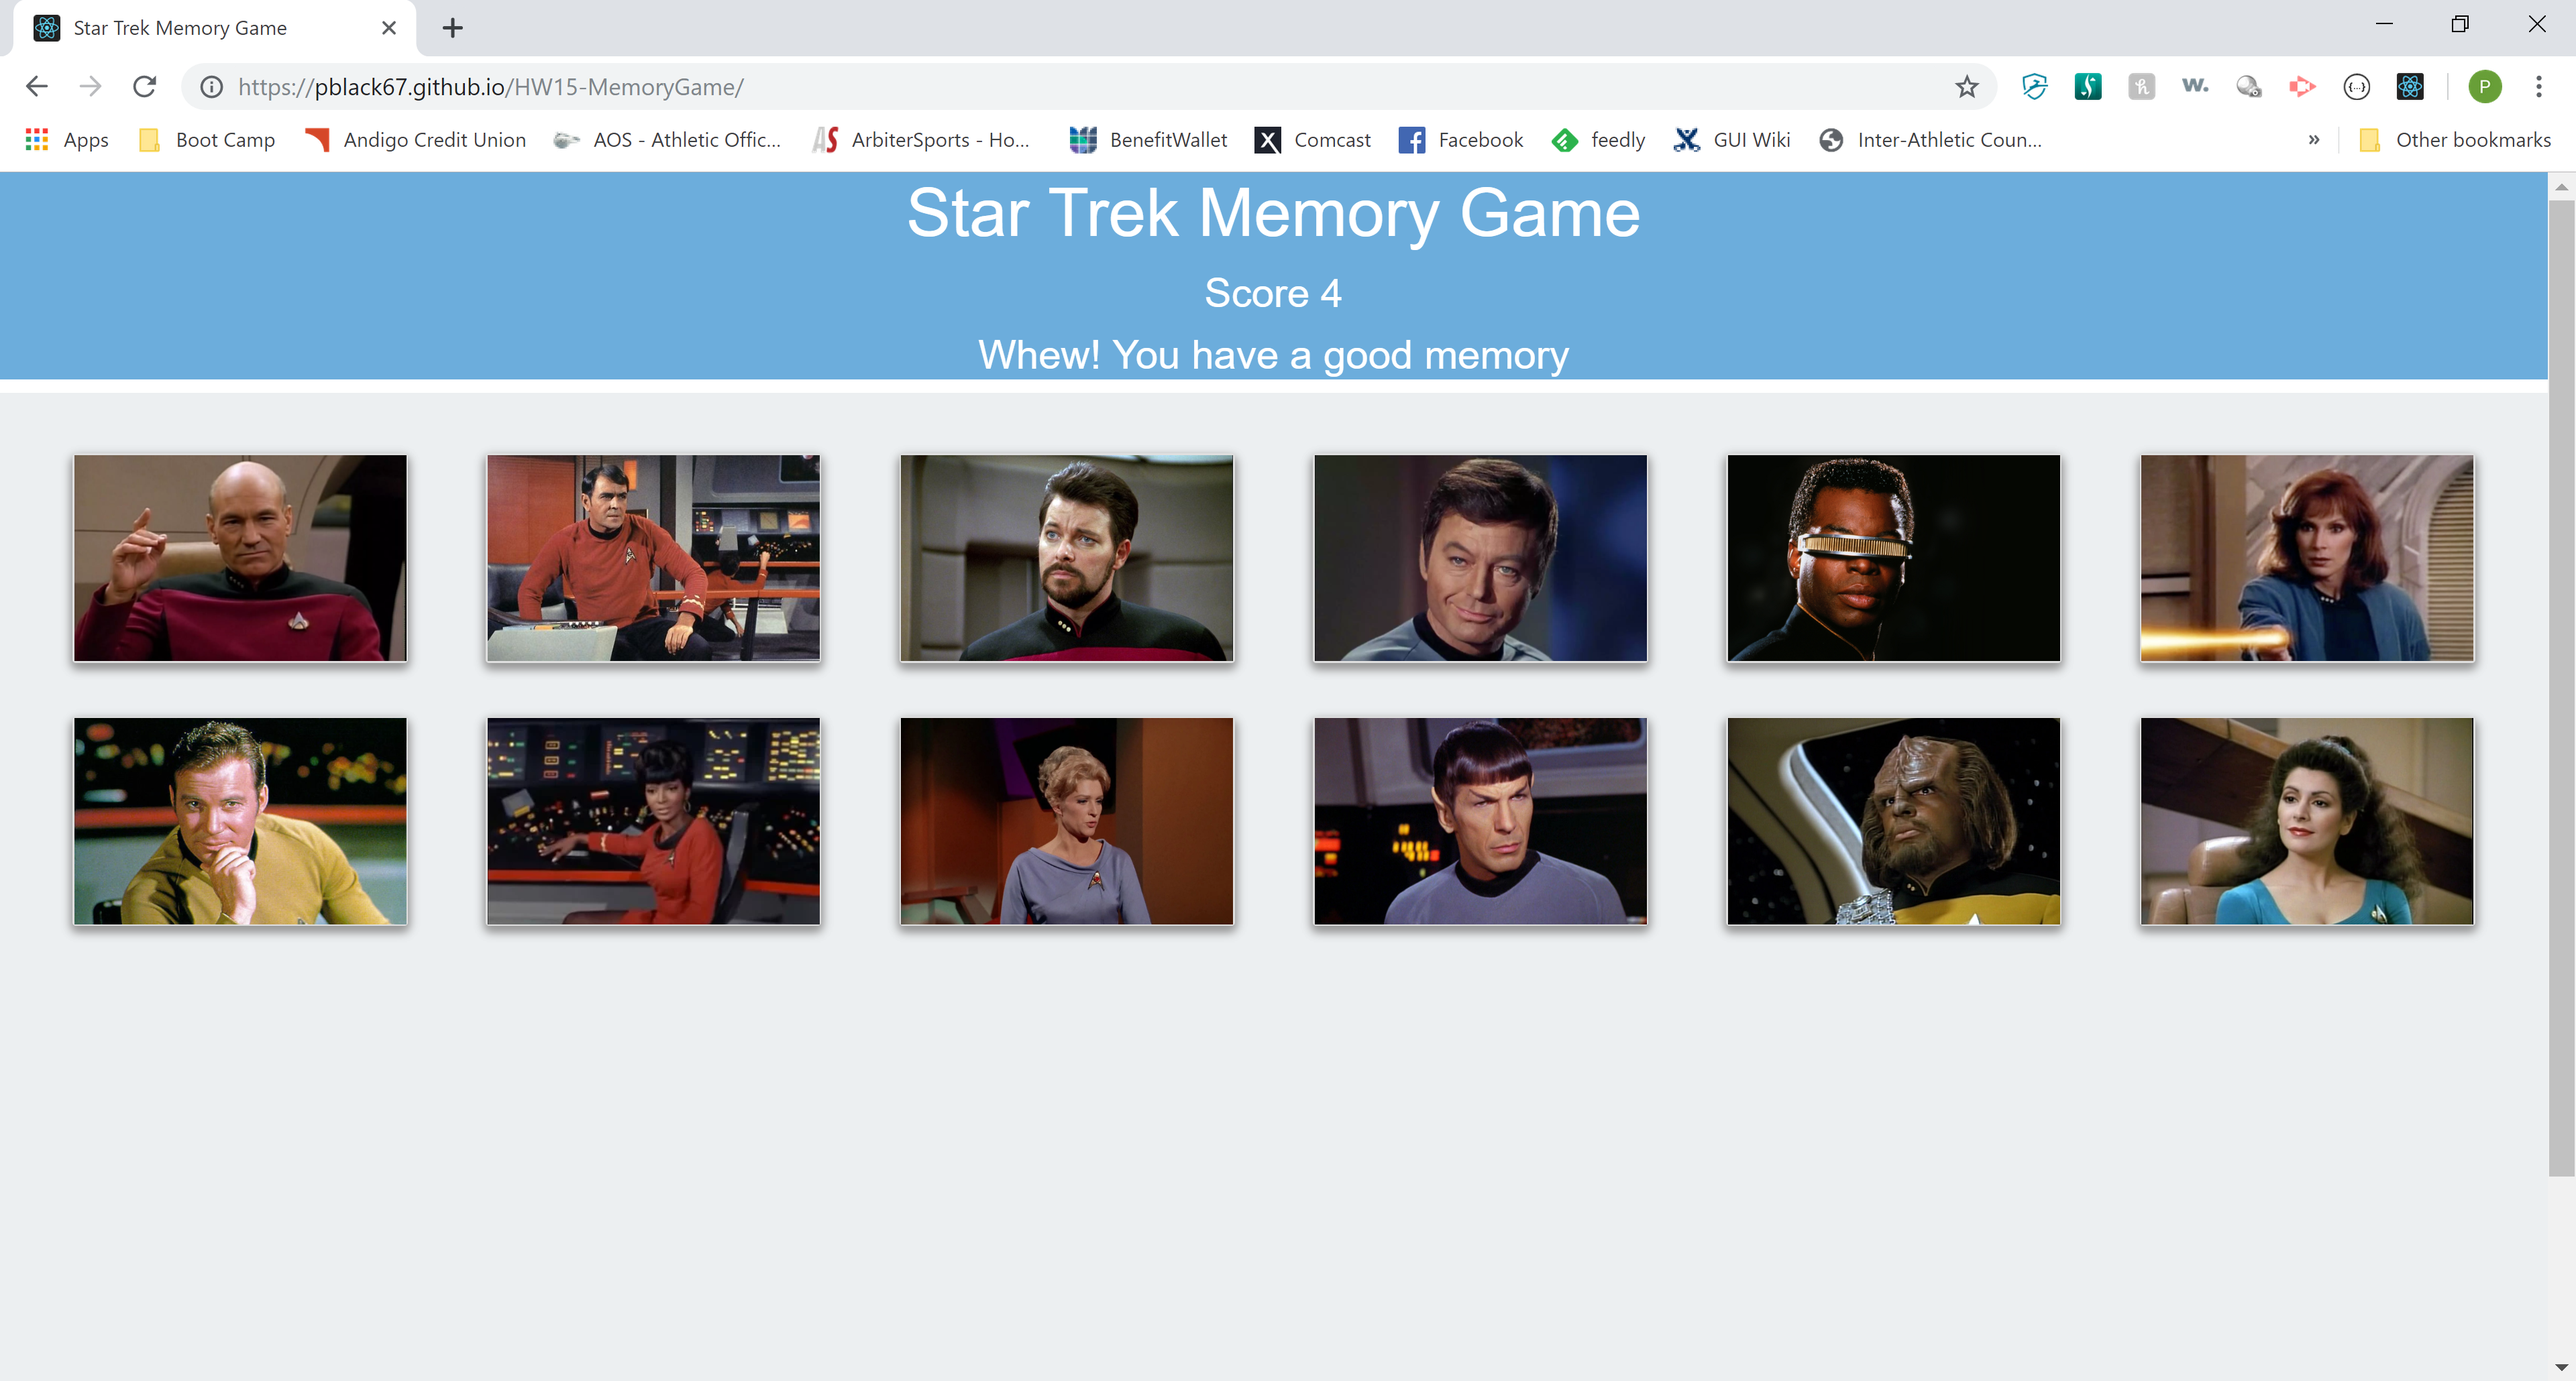
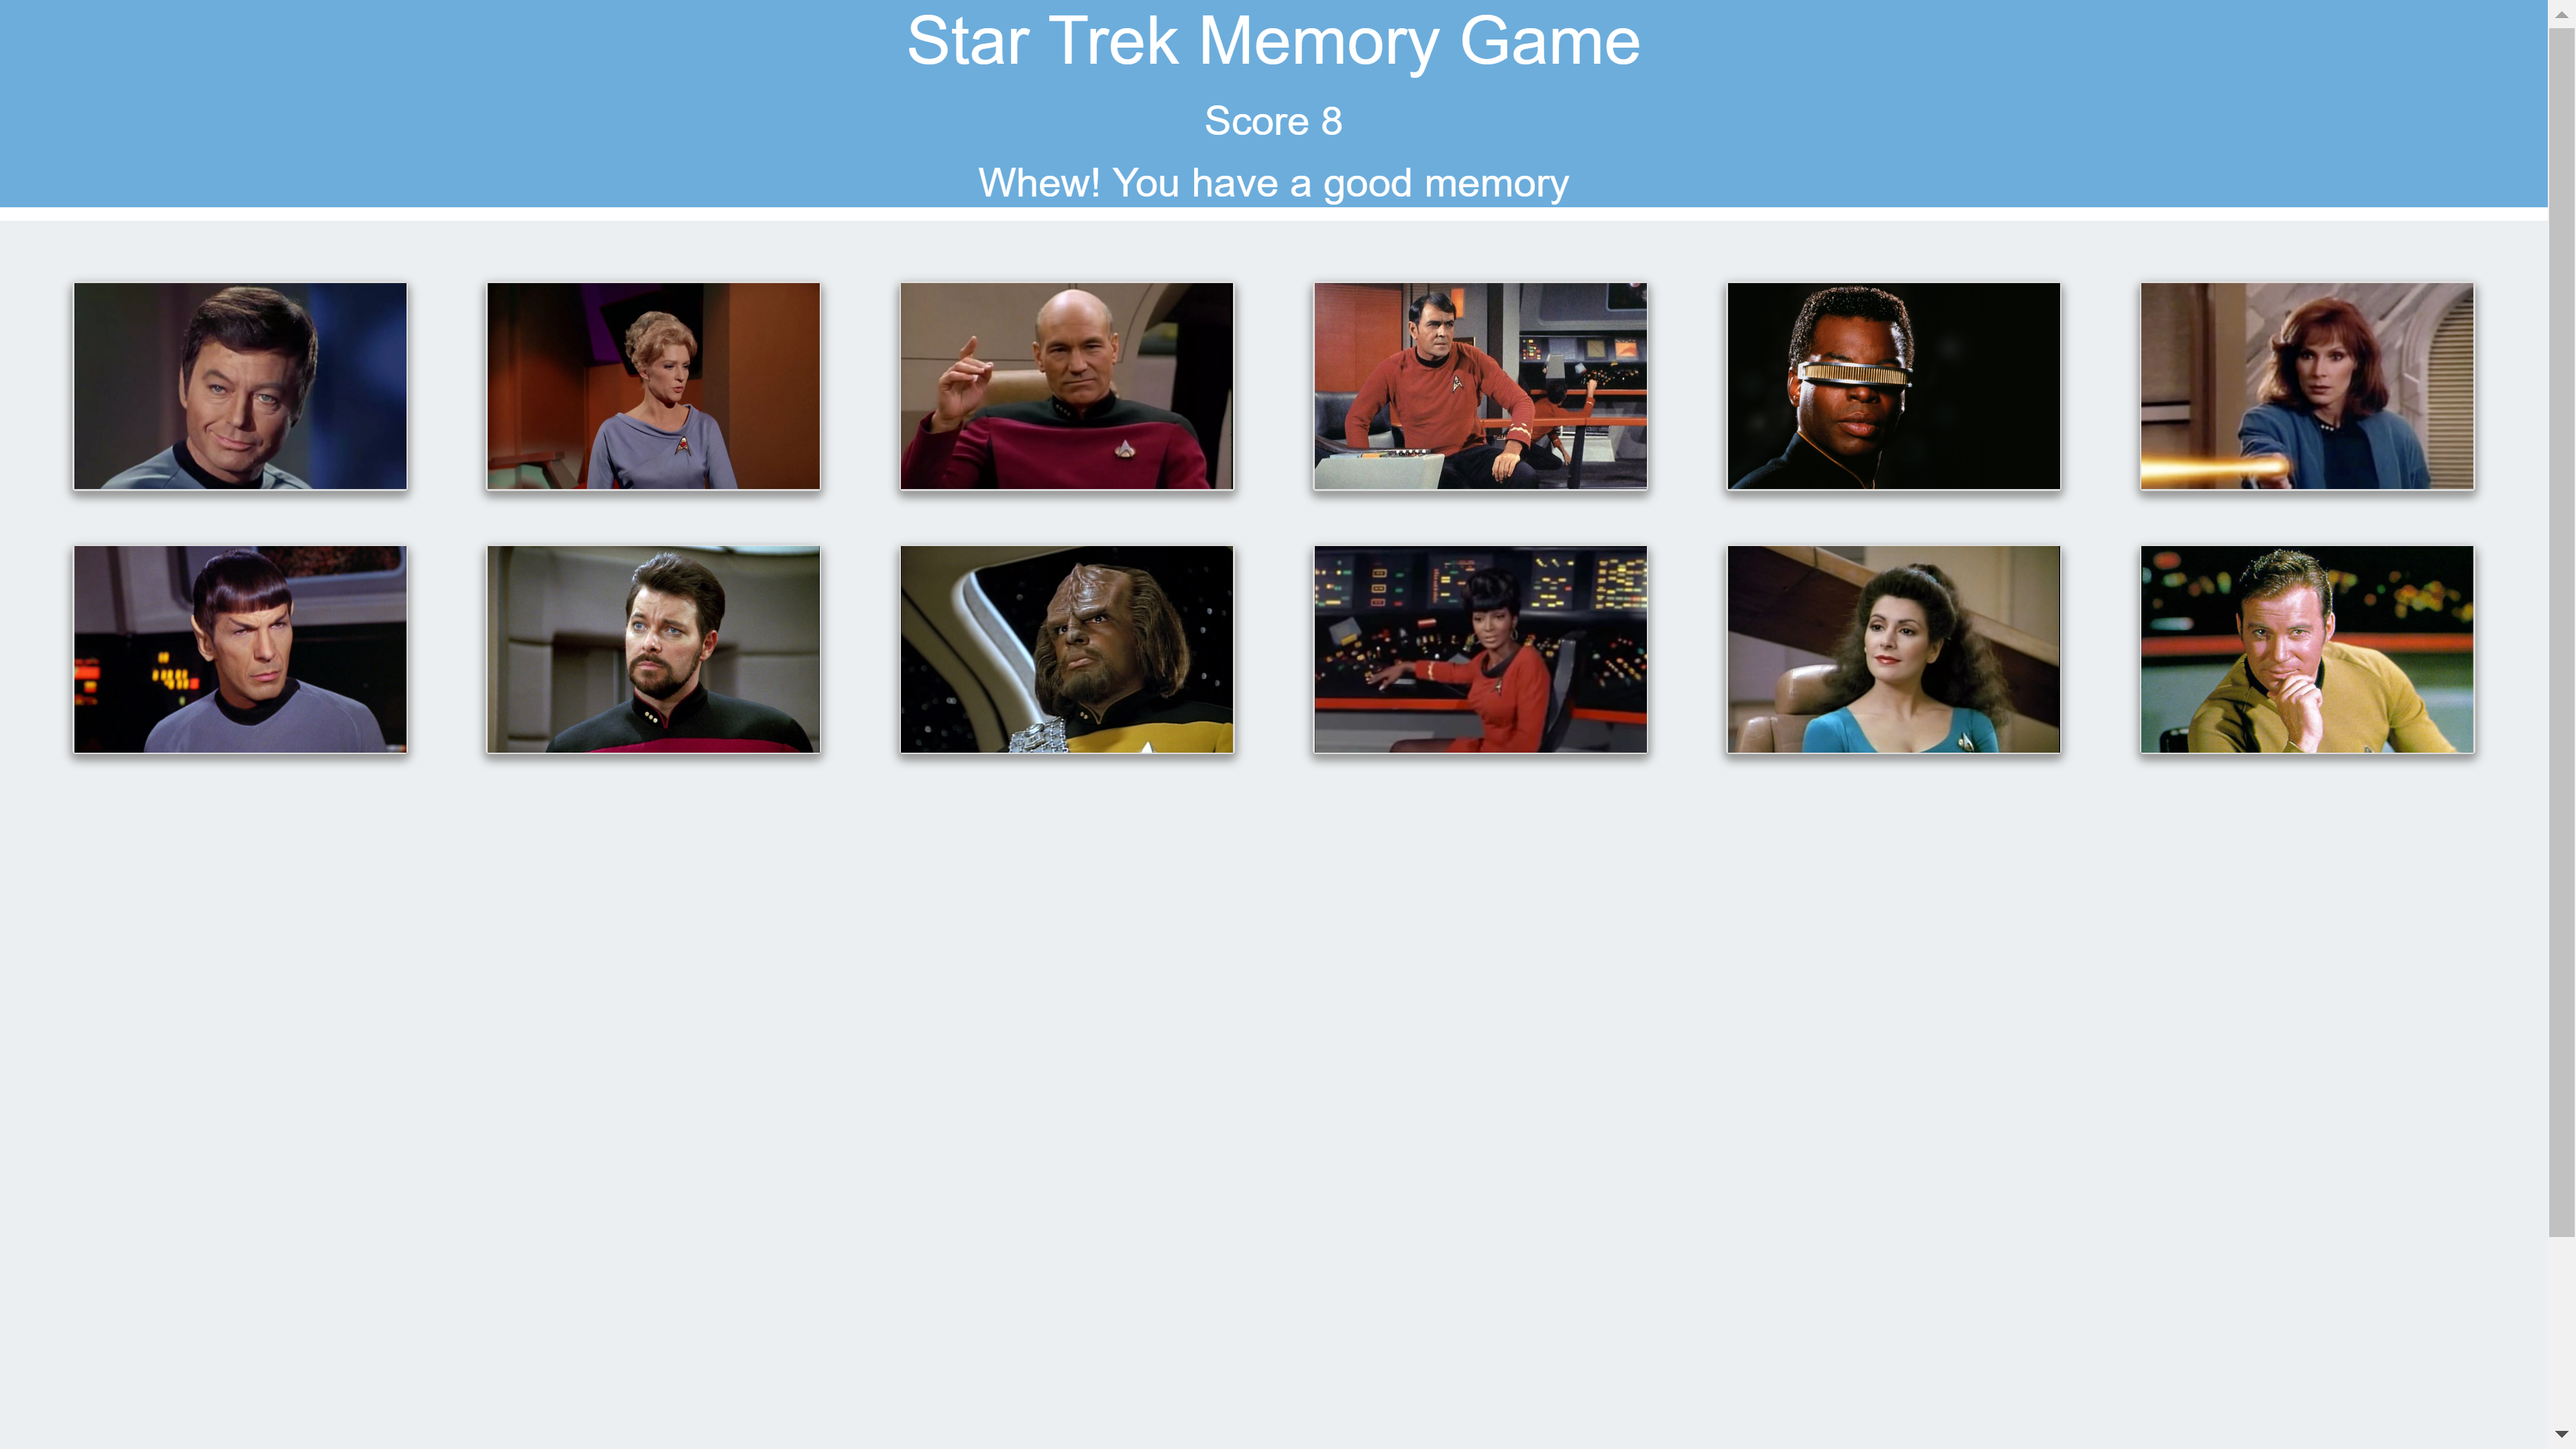
Redid screen shots without broswer tabs

diff --git a/README.md b/README.md
@@ -2,7 +2,7 @@
 
 ## Application Deployed on GitHub Pages
 
-[https://pblack67.github.io/HW15-MemoryGame/](https://pblack67.github.io/HW15-MemoryGame/)
+[Star Trek Memory Game](https://pblack67.github.io/HW15-MemoryGame/)
 
 ## Video Demonstration
 
